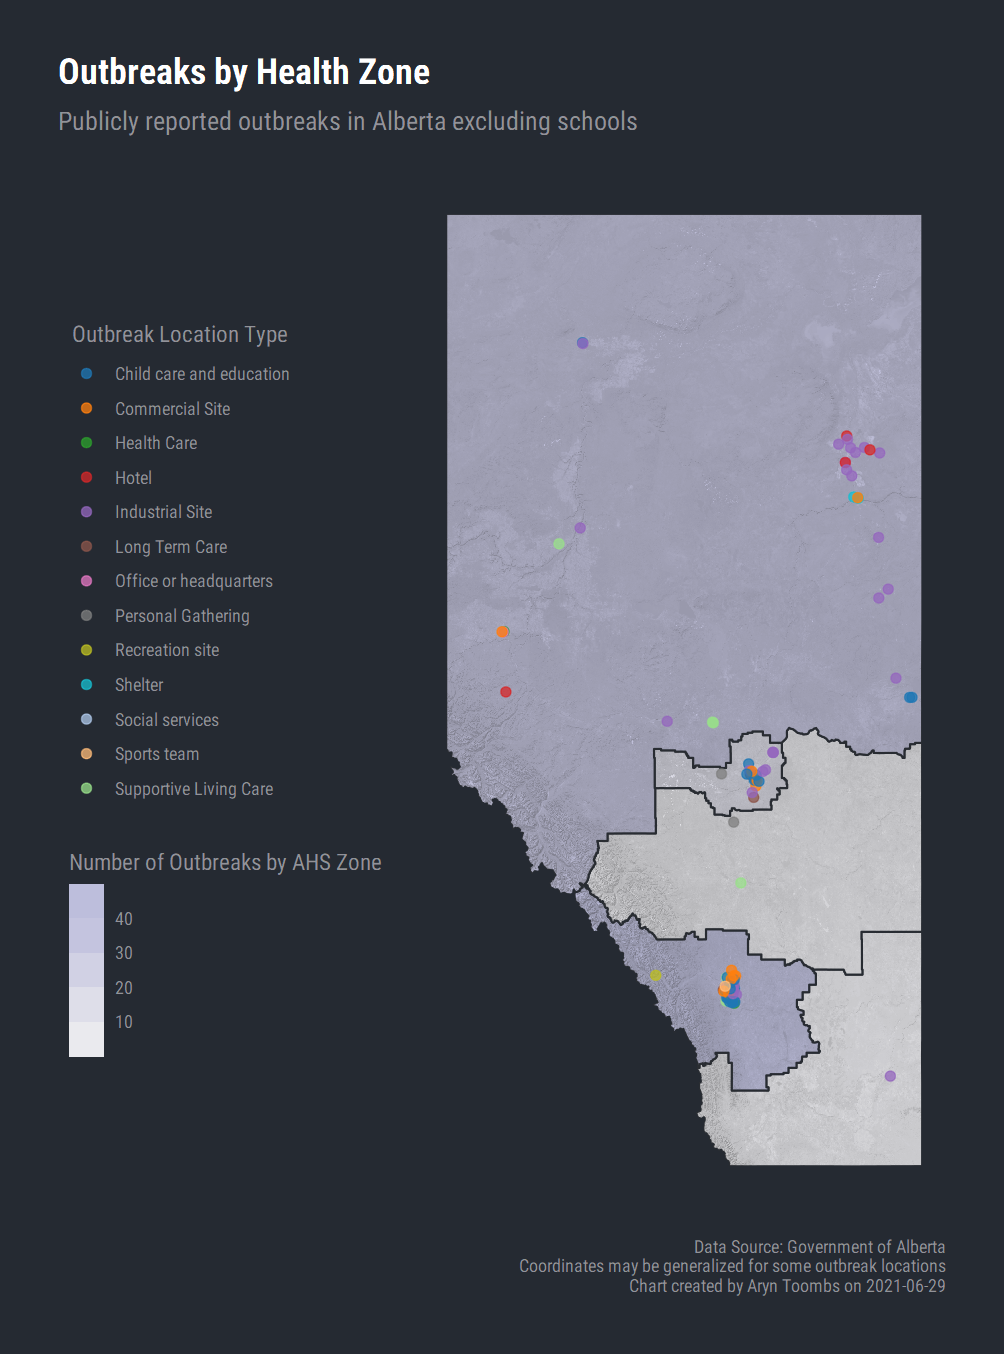
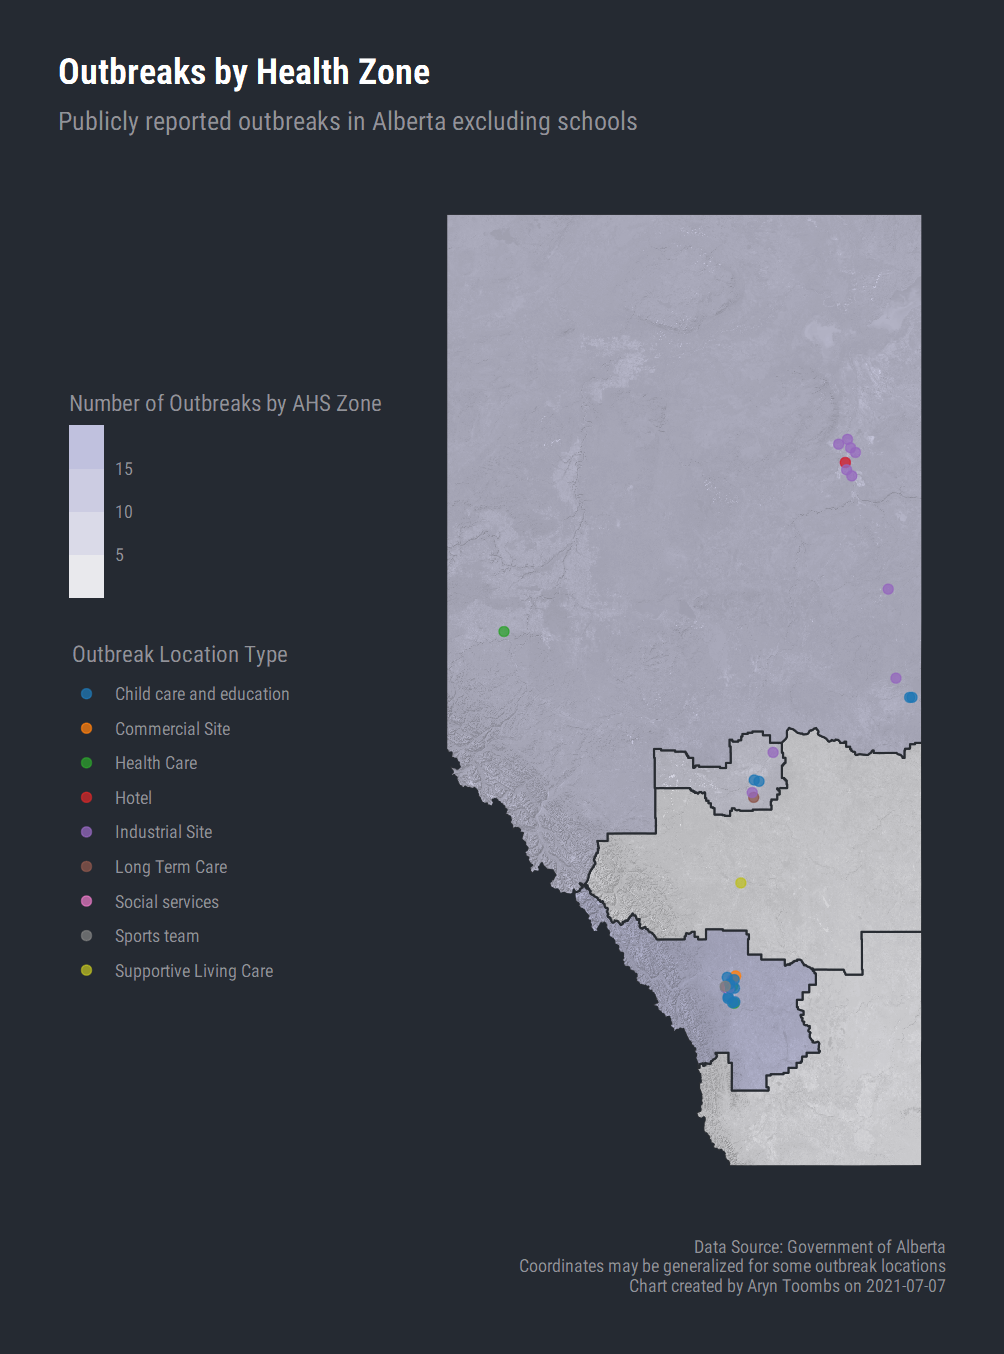
web

diff --git a/outbreaks/index.html b/outbreaks/index.html
@@ -162,7 +162,7 @@
       Calgary Zone
     </div>
     <div class="row box-bottom justify-content-center">
-      <h4>41</h4>
+      <h4>18</h4>
     </div>
   </div>
   <div class="col-sm ml-1 mr-1">
@@ -170,7 +170,7 @@
       Edmonton Zone
     </div>
     <div class="row box-bottom justify-content-center">
-      <h4>19</h4>
+      <h4>6</h4>
     </div>
   </div>
   <div class="col-sm ml-1 mr-1">
@@ -178,7 +178,7 @@
       South Zone
     </div>
     <div class="row box-bottom justify-content-center">
-      <h4>1</h4>
+      <h4>0</h4>
     </div>
   </div>
   <div class="col-sm ml-1 mr-1">
@@ -194,12 +194,12 @@
       North Zone
     </div>
     <div class="row box-bottom justify-content-center">
-      <h4>32</h4>
+      <h4>13</h4>
     </div>
   </div>
 </div>
 <div class="row mb-3 pr-1 pt-1 justify-content-end">
-  <p class="m-1"><i class="bi bi-info-circle-fill"></i> Covid-19 outbreaks (not including schools, see below) current as of Tue, Jun 29, 2021. AHS non-school outbreak data updated on Tuesdays and Fridays.</p>
+  <p class="m-1"><i class="bi bi-info-circle-fill"></i> Covid-19 outbreaks (not including schools, see below) current as of Wed, Jul 07, 2021. AHS non-school outbreak data updated on Tuesdays and Fridays.</p>
 </div>
   <div class="row pl-3">
     <h4 class="body-display">Outbreak Charts</h4>
